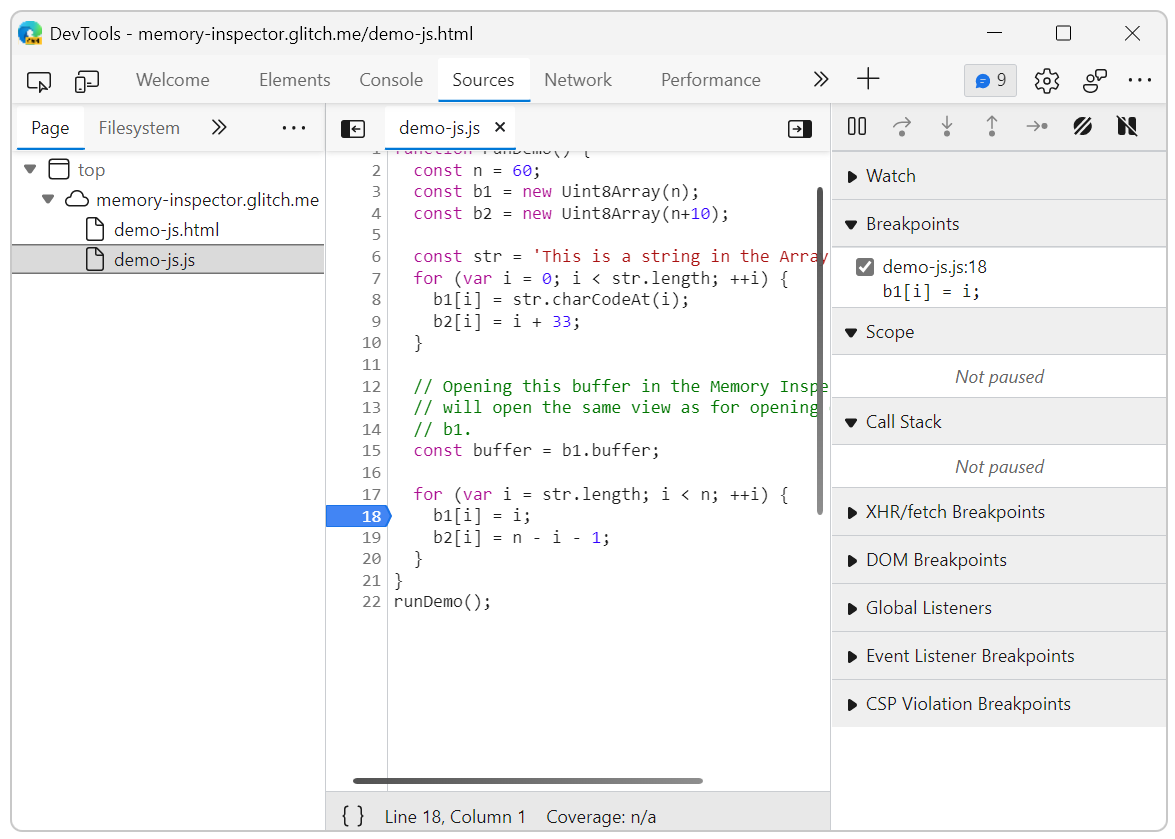
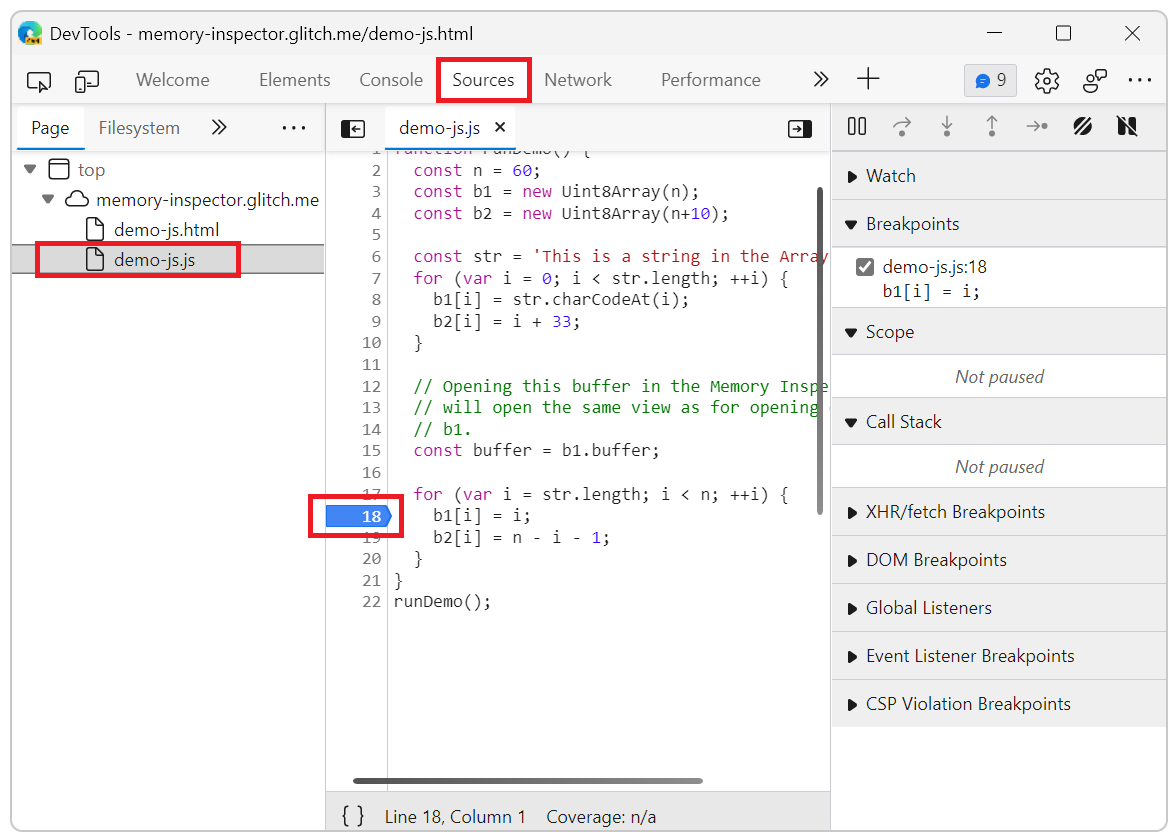
Images Updated
Added red boxes and changed some UI text

Changed region(s): [[0.0306, 0.2789, 0.2145, 0.3409], [0.2451, 0.5888, 0.3677, 0.6508], [0.3677, 0.062, 0.4596, 0.124]]

diff --git a/microsoft-edge/devtools-guide-chromium/memory-inspector/memory-inspector-tool.md b/microsoft-edge/devtools-guide-chromium/memory-inspector/memory-inspector-tool.md
@@ -6,7 +6,7 @@ ms.author: msedgedevrel
 ms.topic: conceptual
 ms.prod: microsoft-edge
 ms.technology: devtools
-ms.date: 04/26/2022
+ms.date: 05/04/2022
 ---
 
 <!-- Copyright Kim-Anh Tran
@@ -64,7 +64,7 @@ The **Memory Inspector** tool provides greater ability than the **Sources** tool
 
     * Click on the **Reveal in Memory Inspector panel** icon (![Reveal in Memory Inspector panel icon](../media/memory-inspector-open-from-buffer-icon.png)) at the end of the `buffer` property line, or
  
-    * From the context menu. Right click on the `buffer` property and select **Reveal in Memory Inspector panel**.
+    * From the context menu. Right click the `buffer` property and select **Reveal in Memory Inspector panel**.
 
     ![Open Memory Inspector from the buffer property line context menu](../media/memory-inspector-open-from-buffer.png)
 
@@ -76,7 +76,7 @@ The **Memory Inspector** tool provides greater ability than the **Sources** tool
 
 You can inspect multiple objects at the same time such as DataView and TypedArray.
 
-With the demo webpage paused at the breakpoint, object `b2` in the **Scope** view is a TypedArray. Right click on the `b2` object and select **Reveal in Memory Inspector panel**
+With the demo webpage paused at the breakpoint, object `b2` in the **Scope** view is a TypedArray. Right click the `b2` object and select **Reveal in Memory Inspector panel**
 
 A new tab for the `b2` object opens next to the first tab, which represents the `buffer` object in Memory Inspector.
 
@@ -133,7 +133,7 @@ You can change the encoding view using the drop-down list. For integers you can 
 
 Complete the following steps to debug a webpage in Memory Inspector.
 
-1. In the **Navigation bar** change the address to `0x00000028`.
+1. In the **Navigation bar** change the address to `0x00000027`.
 
 1. View the ASCII representation and the value interpretations. All values should be zero or empty.
 
@@ -183,7 +183,7 @@ For WebAssembly (Wasm) memory inspection, the process is similar to inspecting J
 
 1. Click on the **Reveal in Memory Inspector panel** icon (![Reveal in Memory Inspector panel icon](../media/memory-inspector-open-from-buffer-icon.png)) at the end of the `$imports.memory` property line. 
 
-    The Wasm ArrayBuffer opens in Memory Inspector.
+    The Wasm ArrayBuffer opens in **Memory Inspector**.
     
     ![Memory Inspector panel Wasm](../media/memory-inspector-panel-wasm.png)
 
